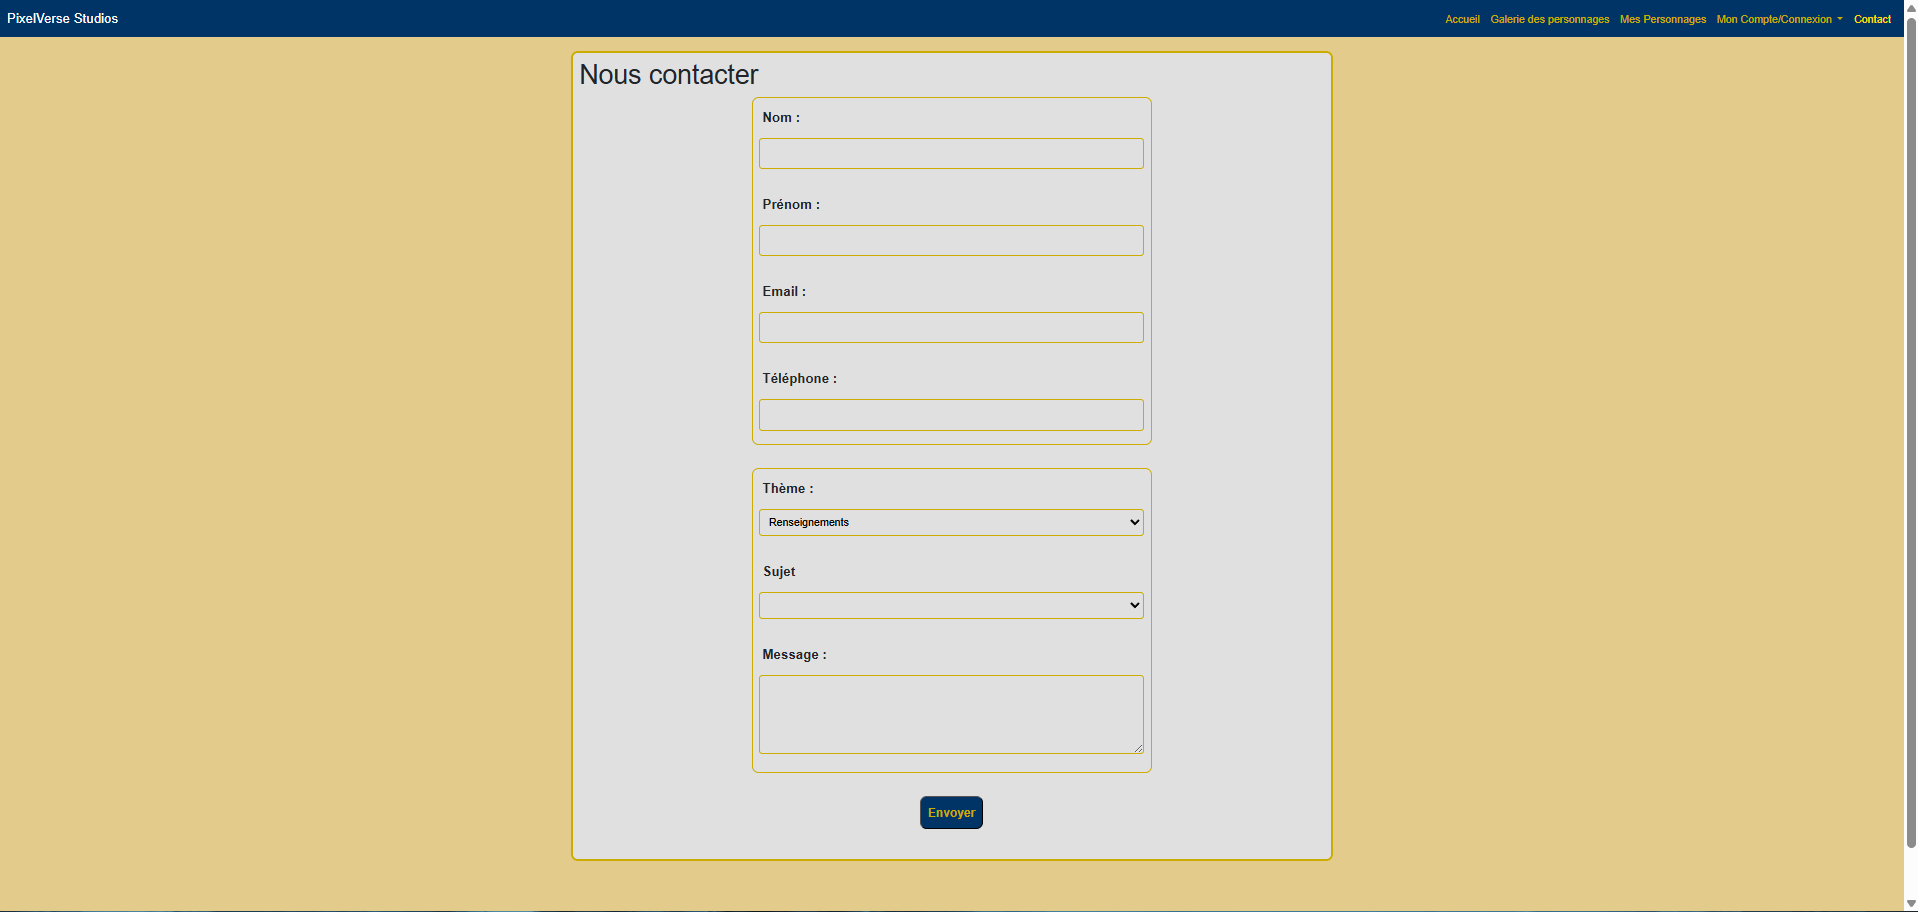
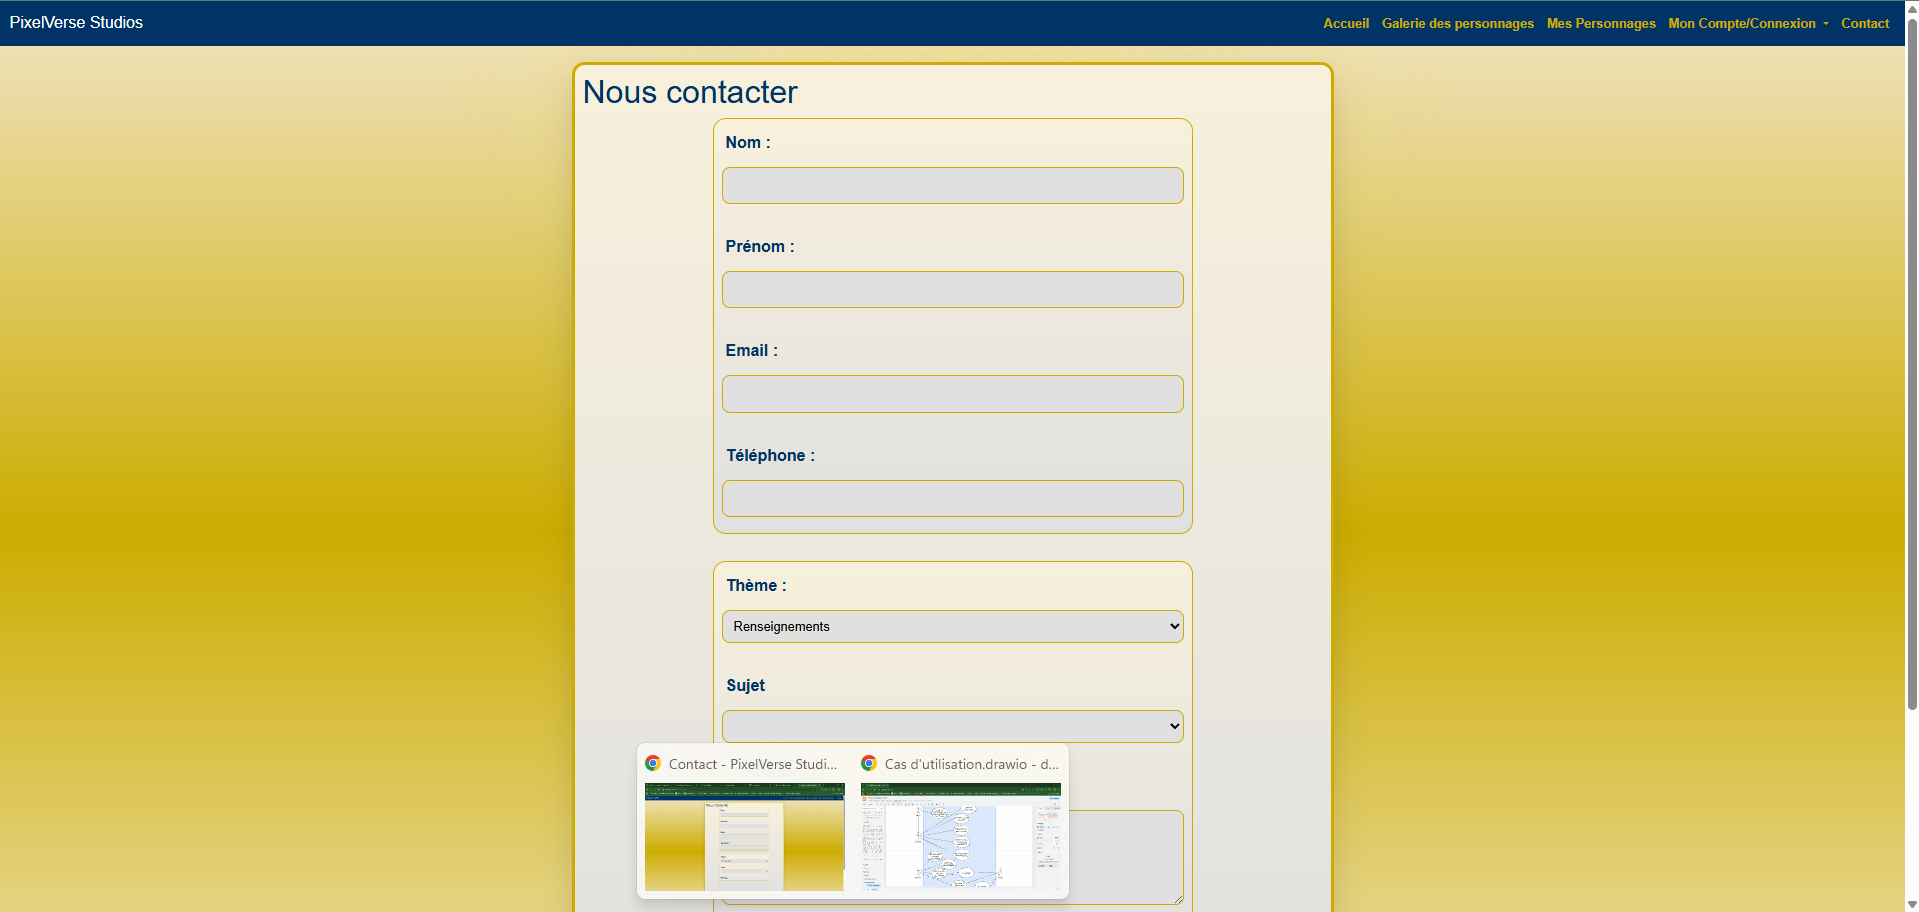
MAJ Apercu après charte graphique

diff --git a/html/detail.html b/html/detail.html
@@ -1,65 +1,63 @@
-<!DOCTYPE html>
+<!doctype html>
 <html lang="fr">
-<head>
-    <meta charset="UTF-8">
-    <meta name="viewport" content="width=device-width, initial-scale=1.0">
+  <head>
+    <meta charset="UTF-8" />
+    <meta name="viewport" content="width=device-width, initial-scale=1.0" />
     <title>Accueil</title>
-    <link rel="stylesheet" href="../css/detail.css">
+    <link rel="stylesheet" href="../css/detail.css" />
     <link rel="stylesheet" href="../scss/main.css" />
-</head>
+  </head>
 
-<body>
-
+  <body>
     <main>
-        <h1>Détails du Personnage</h1>
-        <section>
-                <div class="character-info">
-                    <h2>Personnage 1</h2>
-                    <p><strong>Créé par :</strong> Pseudo 1</p>
-                    <p><strong>Classe :</strong> Guerrier</p>
-                    <p><strong>Niveau :</strong> 45</p>
-                </div>
-            <div class="character-details">
-                <img src="../images/perso1.png" alt="Personnage 1" class="character-image">
-               
-            </div>
+      <h1>Détails du Personnage</h1>
+      <section>
+        <div class="box">
+          <h2>Personnage 1</h2>
+          <p><strong>Créé par :</strong> Pseudo 1</p>
+          <p><strong>Classe :</strong> Guerrier</p>
+          <p><strong>Niveau :</strong> 45</p>
+        </div>
+        <div class="box">
+          <img src="../images/perso1.png" alt="Personnage 1" class="character-image" />
+        </div>
+      </section>
 
-        </section>
-
-        <section>
-            <h2>Statistiques</h2>
-            <ul>
-                <li><strong>Force :</strong> 80</li>
-                <li><strong>Agilité :</strong> 60</li>
-                <li><strong>Intelligence :</strong> 40</li>
-                <li><strong>Endurance :</strong> 70</li>
-            </ul>
-
-            <h2>Équipement</h2>
-            <ul>
-                <li><strong>Arme :</strong> Épée Légendaire</li>
-                <li><strong>Armure :</strong> Armure de Plume</li>
-                <li><strong>Accessoire :</strong> Amulette de Puissance</li>
-            </ul>
-        </section>
-        <section class="comments-section">
-            <h2>Commentaires</h2>
-            <div class="comment">
-                <p><strong>Pseudo 2 :</strong> Super personnage, j'adore le design !</p>
-            </div>
-            <div class="comment">
-                <p><strong>Pseudo 3 :</strong> Les statistiques sont impressionnantes, bravo !</p>
-            </div>
-            <div class="button">
-                <button type="button">Donner mon avis</button>
-            </div>
-        </section>
+      <section>
+        <div class="box">
+        <h2>Statistiques</h2>
+        <ul>
+          <li><strong>Force :</strong> 80</li>
+          <li><strong>Agilité :</strong> 60</li>
+          <li><strong>Intelligence :</strong> 40</li>
+          <li><strong>Endurance :</strong> 70</li>
+        </ul>
+        </div>
+        <div class="box">
+        <h2>Équipement</h2>
+        <ul>
+          <li><strong>Arme :</strong> Épée Légendaire</li>
+          <li><strong>Armure :</strong> Armure de Plume</li>
+          <li><strong>Accessoire :</strong> Amulette de Puissance</li>
+        </ul>
+        </div>
+      </section>
+      <section class="comments-section">
+        <h2>Commentaires</h2>
+        <div class="box">
+          <p><strong>Pseudo 2 :</strong> Super personnage, j'adore le design !</p>
+        </div>
+        <div class="box">
+          <p><strong>Pseudo 3 :</strong> Les statistiques sont impressionnantes, bravo !</p>
+        </div>
+          <button type="button">Donner mon avis</button>
+      </section>
     </main>
 
     <footer>
-        <p>&copy; 2026 PixelVerse Studios</p>
+      <p>&copy; 2026 PixelVerse Studios</p>
     </footer>
-        <script src="../node_modules/bootstrap/dist/js/bootstrap.bundle.min.js"></script>
+    <script src="../node_modules/bootstrap/dist/js/bootstrap.bundle.min.js"></script>
     <script type="module" src="../Router/router.js"></script>
-</body>
+  </body>
 </html>

diff --git a/css/detail.css b/css/detail.css
@@ -60,7 +60,7 @@ button:hover {
   color: var(--pv-primary, #003366);
 }
 
-div {
+.box {
   display: flex;
   flex-direction: column;
   align-items: center;
@@ -69,25 +69,12 @@ div {
   margin: 10px;
   max-width: 40%;
   text-align: center;
-  background: linear-gradient(
-    180deg,
-    var(--pv-surface-strong, #f7f0dc),
-    var(--pv-surface, #e0e0e0)
-  );
+  background: linear-gradient(180deg, var(--pv-surface-strong, #f7f0dc), var(--pv-surface, #e0e0e0));
   border-radius: 16px;
   box-shadow: var(--pv-shadow, 0 18px 40px rgba(0, 0, 0, 0.12));
 }
 
-div img {
+img {
   max-width: 75%;
   height: auto;
-  border: var(--pv-primary, #003366) solid 2px;
-  border-radius: 12px;
-}
-
-p {
-  font-size: 18px;
-  color: var(--pv-primary, #003366);
-  margin: 10px;
-  line-height: 1.7;
 }

diff --git a/README.md b/README.md
@@ -470,7 +470,7 @@ Pour garder une charte propre, il faut éviter de répéter les mêmes couleurs 
 de page. Les fichiers comme `accueil.css` ou `contact.css` doivent surtout gérer la mise en page
 spécifique, tandis que les éléments communs doivent rester dans le SCSS principal.
 
-## 🎨 Objectif du projet
+## 🎯 Objectif du projet
 
 L'objectif est de proposer une interface immersive et claire permettant aux joueurs de **Fantasy
 Realm Online** de gérer facilement leurs personnages et d'accéder rapidement aux principales
@@ -499,6 +499,9 @@ La page d'accueil présente le studio, le jeu et l'accès rapide vers la créati
 <p align="center">
     <img src="./Docs/Aperçu accueil.png" alt="Aperçu de la page d'accueil" width="900">
 </p>
+<p align="center">
+    <img src="./Docs/Aperçu accueil 2.png" alt="Aperçu de la page d'accueil" width="900">
+</p>
 
 ### Galerie des personnages
 
@@ -507,6 +510,9 @@ personnages générées par la galerie.
 
 <p align="center">
     <img src="./Docs/Aperçu Galerie.png" alt="Aperçu de la galerie des personnages" width="900">
+</p>
+<p align="center">
+    <img src="./Docs/Aperçu Galerie 2.png" alt="Aperçu de la galerie des personnages" width="900">
 </p>
 
 ### Création de personnage
@@ -538,6 +544,9 @@ Le formulaire de contact regroupe les informations utilisateur, le sujet de la d
 
 <p align="center">
     <img src="./Docs/aperçu contact.png" alt="Aperçu de la page contact" width="900">
+</p>
+<p align="center">
+    <img src="./Docs/aperçu contact 2.png" alt="Aperçu de la page contact" width="900">
 </p>
 
 ### Connexion et compte
